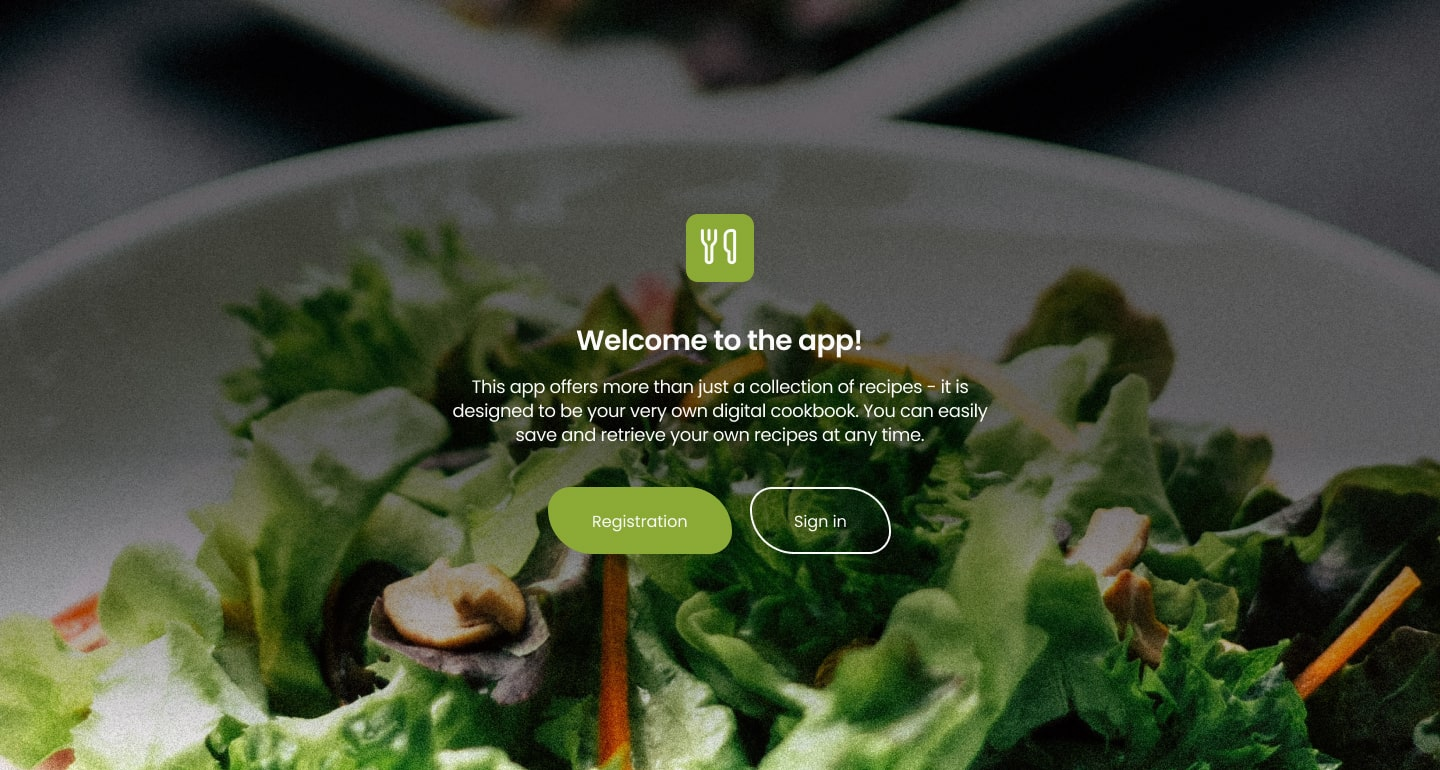
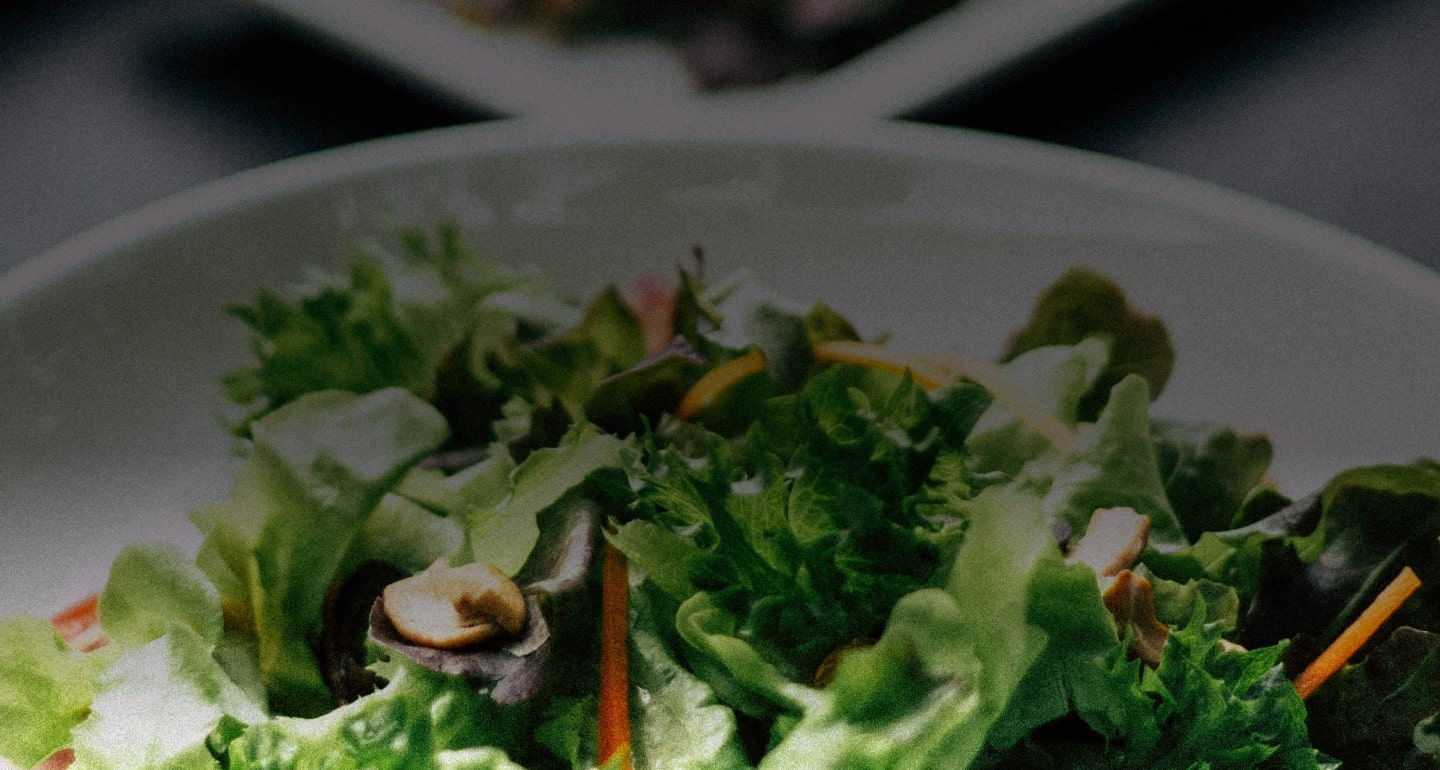
add img

diff --git a/src/page/WelcomePage/WelcomePage.styled.js b/src/page/WelcomePage/WelcomePage.styled.js
@@ -1,5 +1,10 @@
 import styled from 'styled-components';
-import MBG1 from '../../images/welcomePage/bg.jpg';
+import bgMobile1 from 'images/welcomePage/bg_mobile@1x.jpg';
+import bgMobile2 from 'images/welcomePage/bg_mobile@2x.jpg';
+import bgTablet1 from 'images/welcomePage/bg_tablet@1x.jpg';
+import bgTablet2 from 'images/welcomePage/bg_tablet@2x.jpg';
+import bgDesktop1 from 'images/welcomePage/bg_desktop@1x.jpg';
+import bgDesktop2 from 'images/welcomePage/bg_desktop@2x.jpg';
 
 export const DivStyled = styled.div`
   display: flex;
@@ -16,11 +21,25 @@ export const DivStyled = styled.div`
       rgba(0, 0, 0, 0.345172) 78.98%,
       rgba(0, 0, 0, 0) 100%
     ),
-    image-set(url(${MBG1}) 1x);
+    image-set(url(${bgMobile1}) 1x, url(${bgMobile2}) 2x);
 
   @media (min-width: 768px) {
+    background-image: linear-gradient(
+        180deg,
+        rgba(0, 0, 0, 0.6) 58.58%,
+        rgba(0, 0, 0, 0.345172) 78.98%,
+        rgba(0, 0, 0, 0) 100%
+      ),
+      image-set(url(${bgTablet1}) 1x, url(${bgTablet2}) 2x);
   }
   @media (min-width: 1024px) {
+    background-image: linear-gradient(
+        180deg,
+        rgba(0, 0, 0, 0.6) 58.58%,
+        rgba(0, 0, 0, 0.345172) 78.98%,
+        rgba(0, 0, 0, 0) 100%
+      ),
+      image-set(url(${bgDesktop1}) 1x, url(${bgDesktop2}) 2x);
   }
   background-size: cover;
 `;
